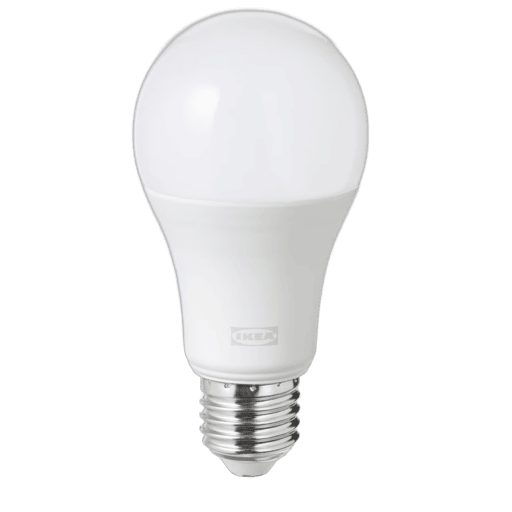
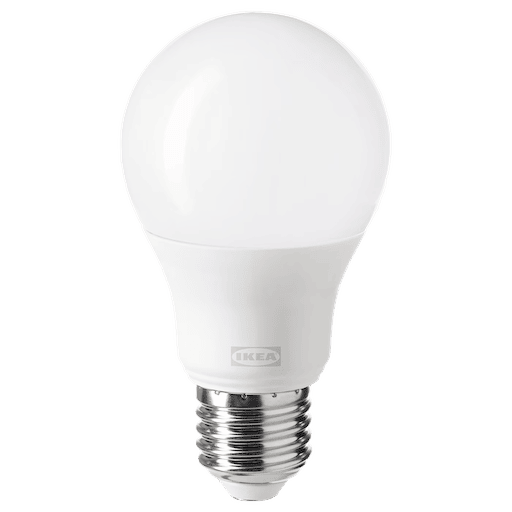
Document TRADFRI shortcut button (#5164)

Pull request: Document TRADFRI shortcut button

diff --git a/docs/devices/E1812.md b/docs/devices/E1812.md
@@ -25,25 +25,83 @@ pageClass: device-page
 <!-- Notes BEGIN: You can edit here. Add "## Notes" headline if not already present. -->
 ## Notes
 
+### Related
+- [TRADFRI on/off switch](./E1743.md)
+- [TRADFRI open/close remote](./E1766.md)
+
+### Information
+- [FCC - emissions, teardown, user manual](https://apps.fcc.gov/oetcf/eas/reports/ViewExhibitReport.cfm?mode=Exhibits&RequestTimeout=500&calledFromFrame=N&application_id=Q%2BnHTQJlVloy5C%2FXAhtK0A%3D%3D&fcc_id=FHO-E1812)
+- [CSA IoT - Zigbee compliance](https://csa-iot.org/csa_product/tradfri-shortcut-button/)
+- Based on Silabs chipset
+
+### Battery
+Uses 1 x CR2032 battery (3V)
+
+This device *sleeps* to preserve energy when it's not actively used.  
+When sleeping, it will not respond to any Z2M commands.  
+**Press its buttons repeatedly to keep it awake and allow interactions,** for example when attempting to bind.
 
 ### Pairing
-Pair the remote to Zigbee2MQTT by holding it close to the coordinator and
-pressing the inside button, next to the CR2032 battery, 4 times.
-The red light on the (front of the) remote will now flash a few times.
+**Unscrew and remove the bottom cover** to reveal the pair button.  
+**Press the pair button 4 times** to factory reset and start pairing.  
+A red light should flash and pulsate until it connects.  
 
-### Troubleshooting: Device didn't respond to OTA request
-To resolve the `Device didn't respond to OTA request` error, you can try to push a button on it, shortly before you start the update, to wake up the Remote. Sometimes it also helps keeping the device awake, by pushing a button repeatedly until you read the first "Updating... 0.00%" message (about 5s).
+### Touchlink
+This buttons uses [Touchlink](../guide/usage/touchlink.md) to **set-up** binding without a Zigbee network.  
+To activate, bring it close to the device you want to control, and **hold the pair button for 10s.**  
+Unfortunately, this is barely useful on the initial firmware, because it's missing the *Off* command. Also the firmware update removes this possibility entirely.
 
 ### Binding
-The [binding](../guide/usage/binding.md) functionality of this remote varies per firmware version:
-- below 2.3.75: supports binding to groups only. It can only be bound to 1 group at a time. By default this remote is bound to the default bind group which you first have to unbind it from. This can be done by sending to `zigbee2mqtt/bridge/request/device/unbind` payload `{"from": "DEVICE_FRIENDLY_NAME", "to": "default_bind_group"}`. Wake up the device right before sending the commands by pressing a button on it.
-- 2.3.075 and greater: supports binding to devices only
+When connected to a Zigbee network, **this remote can directly control devices or groups**.  
 
-### Troubleshooting: no battery level
-It may help to remove the battery for a few seconds and after that reconfigure it via [Configure](../guide/usage/mqtt_topics_and_messages.md#zigbee2mqttbridgeconfigure). Right before executing the Configure make sure to wake up the device by pressing a button on it.
+**On initial firmware,** it can be bound to multiple devices and multiple groups.  
+Bind a single cluster, e.g. *genOnOff* to enable all commands. Binding multiple clusters will duplicate (spam) the commands!
 
-### Actions
-Value `off` is published when double-clicking the button.
+**On latest firmware,** it can be bound to multiple devices *or* one group.  
+To control devices, bind all clusters you need (*genOnOff* and *genLevelCtrl*).  
+To control a group, bind only *genBasic*, and unbind everything else, including the coordinator.
+
+Note that, when bound to a device, the remote may spam the network and drain the battery if that device goes offline. Bind to group to avoid this.
+
+### Action mapping
+
+**Latest firmware enables double-click = off.**  
+To accommodate this, a noticeable 0.6s delay is added to single-clicks.
+
+|   Press |                               Z2M Action |                                        Bind Action |
+| ------: | ---------------------------------------: | -------------------------------------------------: |
+|  Single |                                     `on` |                                               *On* |
+|  Double |                                    `off` |                                              *Off* |
+| Triple+ |                  Multiple `off` and `on` |                            Multiple *Off* and *On* |
+|    Long | `brightness_move_up` + `brightness_stop` | *MoveWithOnOff (Up, 83 units/s)* + *StopWithOnOff* |
+
+**Older firmware is missing multi-clicks.**  
+It's not even possible to configure them in automations, because this version has a very long 0.4s debounce time.  
+The benefit is that single-clicks are sent immediately.
+
+|   Press |                               Z2M Action |                                        Bind Action |
+| ------: | ---------------------------------------: | -------------------------------------------------: |
+|  Single |                                     `on` |                                               *On* |
+|    Long | `brightness_move_up` + `brightness_stop` | *MoveWithOnOff (Up, 83 units/s)* + *StopWithOnOff* |
+
+Button must be held for ~0.7s until long-press gets detected, on any version.
+
+### Firmware
+- v2.3.015, date `20190715`: initial version, not available as a downgrade
+- v24.4.6, date `20230308`: the latest and only update available
+  - adds double-clicks and removes [Touchlink](#touchlink)
+
+### Troubleshooting
+1. Difficulties pairing, action null
+    - Update coordinator
+    - Power-off 'bad' routers (e.g. Telink Tuya, AwoX) and pair again
+    - Pair directly through the coordinator
+    - Add USB 2.0 extension to dongle coordinators
+2. Battery null after pairing
+    - Power-cycle the remote and refresh percentage
+3. Battery drains too quick, action null, remote offline
+    - Reset or unbind it from offline devices
+
 <!-- Notes END: Do not edit below this line -->
 
 